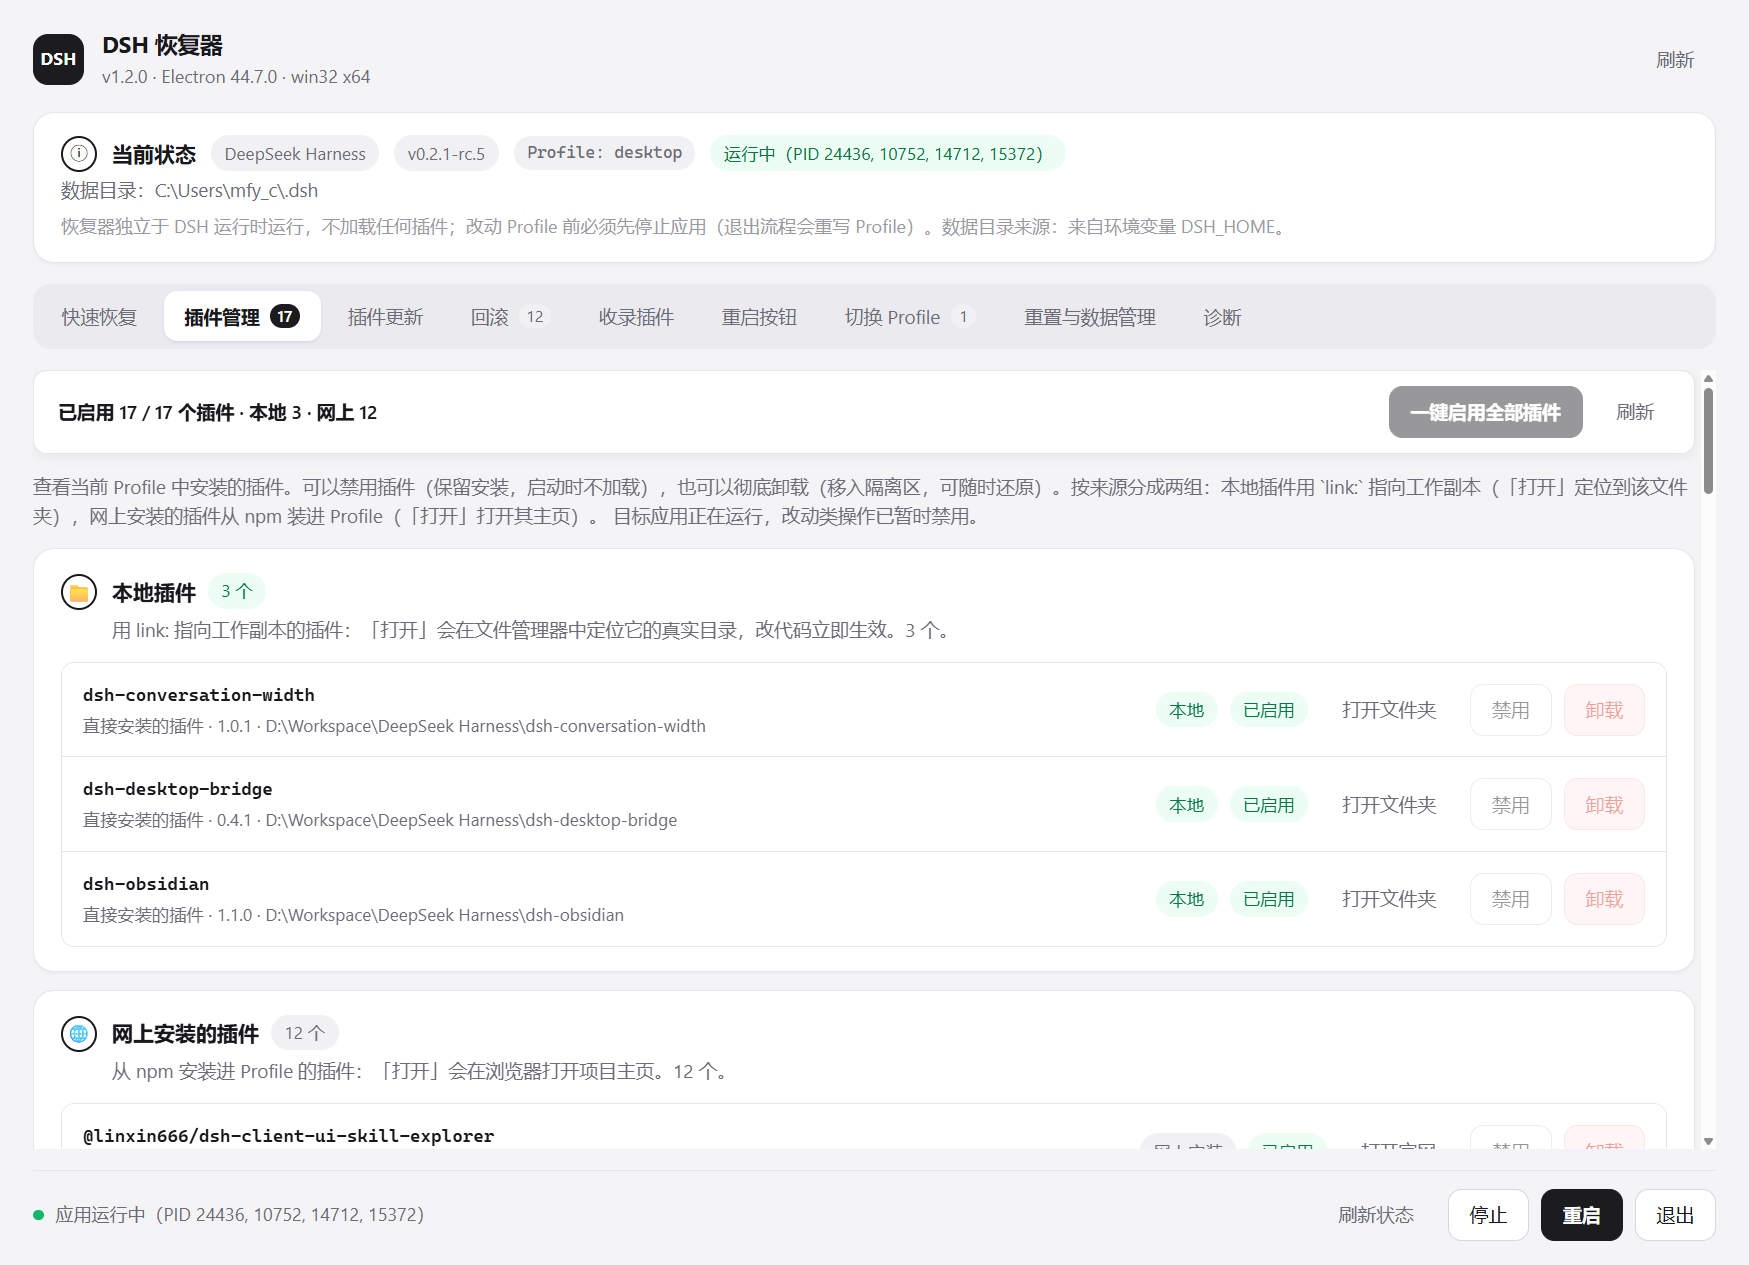
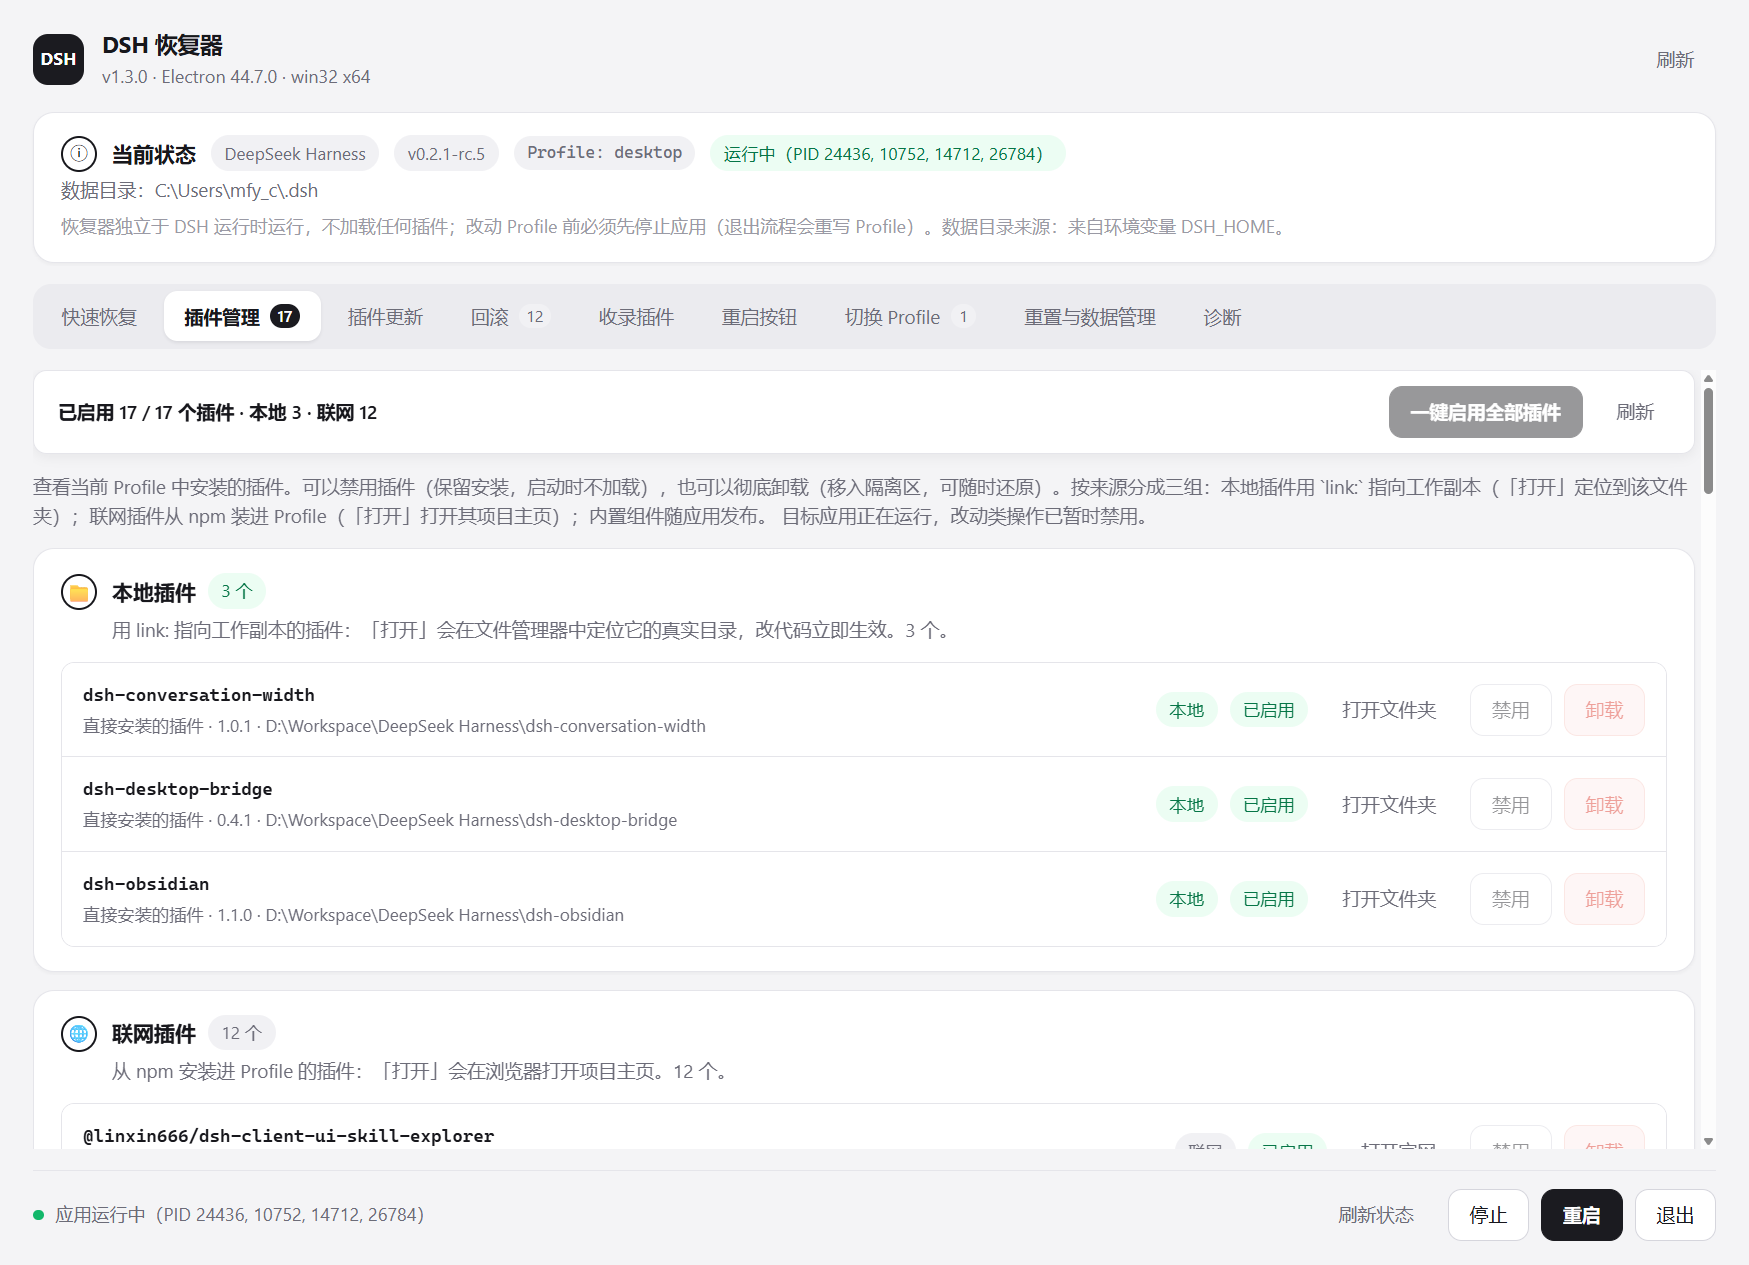
v1.3.1：「网上安装的插件」改名为「联网插件」
与「本地插件」「内置组件」统一成四个字，读起来对仗，
也去掉「网上」那种口语化的别扭感。行内标签同步改为「联网」，
顶部统计变成「本地 3 · 联网 12」。

只改显示文案与用例名，判定逻辑（source: registry）不变。
--verify 78/78、--ui-check ok。

diff --git a/app/renderer/app.js b/app/renderer/app.js
@@ -712,7 +712,7 @@ function renderPlugins() {
 
   const nodes = [
     panelBar(
-      `已启用 ${enabledCount} / ${bundles.length} 个插件 · 本地 ${localPlugins.length} · 网上 ${registryPlugins.length}` +
+      `已启用 ${enabledCount} / ${bundles.length} 个插件 · 本地 ${localPlugins.length} · 联网 ${registryPlugins.length}` +
         (patchDisabledCount > 0 ? ` · 补丁层禁用 ${patchDisabledCount} 条` : ""),
       [
         button("一键启用全部插件", "enable-all-bundles", undefined, {
@@ -731,7 +731,7 @@ function renderPlugins() {
     ),
     hint(
       "查看当前 Profile 中安装的插件。可以禁用插件（保留安装，启动时不加载），也可以彻底卸载（移入隔离区，可随时还原）。" +
-        "按来源分成两组：本地插件用 `link:` 指向工作副本（「打开」定位到该文件夹），网上安装的插件从 npm 装进 Profile（「打开」打开其主页）。" +
+        "按来源分成三组：本地插件用 `link:` 指向工作副本（「打开」定位到该文件夹）；联网插件从 npm 装进 Profile（「打开」打开其项目主页）；内置组件随应用发布。" +
         (running ? " 目标应用正在运行，改动类操作已暂时禁用。" : ""),
     ),
   ];
@@ -756,7 +756,7 @@ function renderPlugins() {
     const noHome = registryPlugins.filter((plugin) => typeof plugin.homepage !== "string").length;
     nodes.push(
       card({
-        title: "网上安装的插件",
+        title: "联网插件",
         icon: "🌐",
         desc:
           `从 npm 安装进 Profile 的插件：「打开」会在浏览器打开项目主页。${registryPlugins.length} 个` +
@@ -865,7 +865,7 @@ function pluginRow(plugin, running) {
   // backend from the same row data, so this only has to know whether one is
   // available at all.
   const canOpen = local || builtin ? plugin.installedLocal === true || typeof plugin.sourcePath === "string" : typeof plugin.homepage === "string";
-  const sourceChip = local ? chip("本地", "ok") : builtin ? chip("内置", "muted") : chip("网上安装");
+  const sourceChip = local ? chip("本地", "ok") : builtin ? chip("内置", "muted") : chip("联网");
   return row({
     name: plugin.name,
     mono: true,

diff --git a/app/backend/verify.js b/app/backend/verify.js
@@ -505,7 +505,7 @@ async function verifyPluginManagement(controller, fixture, result) {
   const registryRow = byName(FIXTURE_BUNDLE);
   const coreRow = byName(CORE_BUNDLE);
   result.ok(
-    "插件管理: 按来源分类（本地/网上/内置）",
+    "插件管理: 按来源分类（本地/联网/内置）",
     linkedRow?.source === "local" &&
       registryRow?.source === "registry" &&
       coreRow?.source === "builtin",
@@ -519,7 +519,7 @@ async function verifyPluginManagement(controller, fixture, result) {
     linkedRow?.sourcePath,
   );
   result.ok(
-    "插件管理: 网上插件解析出主页",
+    "插件管理: 联网插件解析出主页",
     typeof registryRow?.homepage === "string" && /^https?:\/\//u.test(registryRow.homepage),
     registryRow?.homepage,
   );

diff --git a/app/main.js b/app/main.js
@@ -187,7 +187,7 @@ async function runUiCheck({ shot }) {
   else {
     if (!pluginsPanel.actions.some((button) => button.action === "enable-all-bundles")) issues.push("插件管理面板缺少「一键启用全部插件」按钮");
     // Every plugin row must offer its own "open" action, and the label has to
-    // agree with the source: 本地 -> folder, 网上安装 -> homepage. A row whose
+    // agree with the source: 本地 -> folder, 联网 -> homepage. A row whose
     // target is unknown renders the button disabled instead of hiding it, so
     // the count below stays meaningful.
     const openers = pluginsPanel.actions.filter((button) => button.action === "open-plugin");

diff --git a/app/backend/profile.js b/app/backend/profile.js
@@ -180,7 +180,7 @@ function listPlugins(profileDir, manifest) {
       installedLocal: pathExists(installedDir),
       quarantinable: pathExists(installedDir),
       declared: declared !== undefined,
-      // Source classification for the 插件管理 panel: 本地 vs 网上安装.
+      // Source classification for the 插件管理 panel: 本地 / 联网 / 内置.
       source: builtinOrigin(name) ?? origin.source,
       sourcePath: origin.sourcePath,
       linked: origin.linked,
